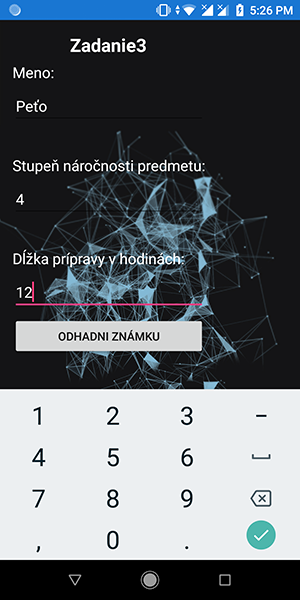
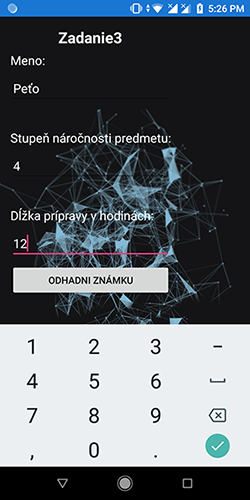
MD edit

diff --git a/README.md b/README.md
@@ -7,4 +7,4 @@ Na predikciu bola vybraná *MLP (Multilayer Perceptron)*. Klientská aplikácia 
 ![Azure Webservice](doc/web_service.jpg)
 
 ## Xamarin.Forms Aplikácia
-![Xamarin.Forms Aplikácia](doc/xamarin_app.png =250x) 
+![Xamarin.Forms Aplikácia](doc/xamarin_app.png) 
